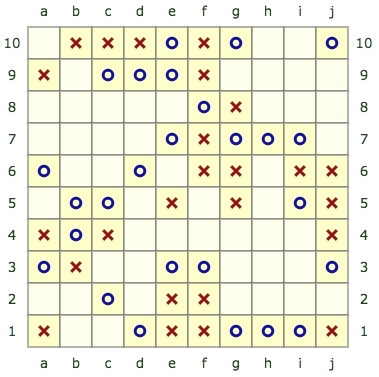
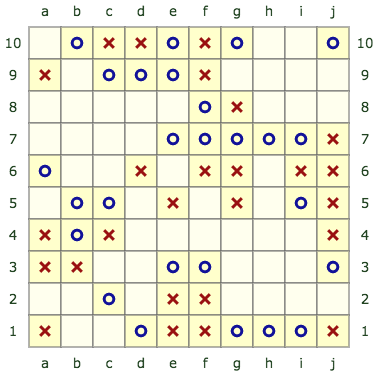
fixed 10x10 quiz

diff --git a/public_html/tictactoe/tictactoe.html b/public_html/tictactoe/tictactoe.html
@@ -35,7 +35,7 @@
 					WHAT YOU WILL DO: You will be asked to solve a Tic-tac-toe game problem.
 				</p>
 				<p>
-					TIME REQUIRED: Participation will take approximately 10 minutes.
+					TIME REQUIRED: Participation will take approximately 10-15 minutes.
 				</p>
 				<p>
 					RISKS: There are no anticipated risks associated with participating in this study. The effects of participating should be comparable to those you would experience from viewing a computer monitor for 20 minutes and using a mouse.
@@ -362,7 +362,7 @@
 				<div  style="float: left; width: 350px; margin-left: 50px; margin-top: 50px;">
 					<div id='solve'>
 					In this position <span class="player">O</span>  can force a win in <span class="turns" style="font-weight:bold ">4</span> turns.
-					This means that <span class="player">O</span> can win the game by placing <span class="streak" style="font-weight:bold ">4</span> marks,
+					This means that <span class="player">O</span> can win the game by placing <span class="turns" style="font-weight:bold ">4</span> more marks,
 						even when <span class="otherPlayer">O</span> plays to win as well.
 						<br>
 					<br><br>
@@ -484,7 +484,7 @@
 		
 		<div id="final" class="page">
 			<div class="intro">
-				<p>You successfully completed this task. Thank you!</p>	
+				<p>You completed this task. Thank you!</p>
 				<p>Please paste your code back in the amazon turk HIT. You have to paste the code in order to get paid.</p>	
 				<p>This is your code:</p>				
 				<span class='code'>

diff --git a/public_html/tictactoe/tictactoe.js b/public_html/tictactoe/tictactoe.js
@@ -81,23 +81,23 @@ E.board10_practice = {
 }
 
 E.board_practice = E.board10_practice;
-
+//
 // E.board10_practice = {
 //     canvasContainerDiv : "#canvas-container-practice",
 //     nrows : 10,
 //     ncols : 10,
 //     cellSize: 32,
 //     position: [
-//         [0,0,0,0,0,1,0,0,2,0],
-//         [0,2,0,0,0,2,1,0,0,0],
-//         [0,0,0,0,2,1,2,2,2,0],
-//         [2,0,2,0,0,1,1,0,0,1],
-//         [0,2,2,0,1,1,2,0,0,1],
-//         [0,1,2,1,2,1,0,0,2,1],
-//         [2,0,0,2,2,2,2,1,1,2],
-//         [1,0,1,2,2,1,0,0,1,0],
-//         [0,0,2,0,1,1,2,1,0,0],
-//         [1,0,0,1,1,1,0,2,0,0]
+//         [0,1,0,0,0,1,0,0,0,1],
+//         [0,0,0,0,0,2,1,0,0,0],
+//         [0,0,0,0,2,2,2,2,0,2],
+//         [1,2,2,0,1,1,0,0,0,1],
+//         [2,0,2,0,0,0,0,2,2,1],
+//         [2,1,0,0,2,2,1,0,0,2],
+//         [1,0,2,1,2,1,0,0,0,0],
+//         [0,0,2,0,1,1,0,0,0,0],
+//         [1,0,0,1,1,1,2,2,2,1],
+//         [2,0,0,2,0,1,0,0,0,1]
 //
 //     ],
 //     nextPlayer: 1,
@@ -715,7 +715,7 @@ function submit_solution() {
 	// }
 
     if (E.condition == "solve") {
-        alert(move)
+        // alert(move)
         if (E.configuration.winMove.indexOf(move) > -1)
         {
             E.solvedCorrect = true;
